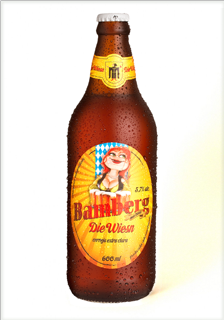
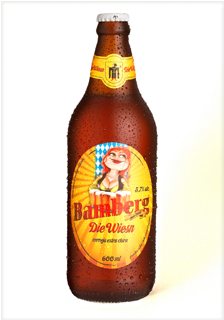
Alterações das imagens

Changed region(s): [[0.0, 0.0, 0.0312, 1.0]]

diff --git a/html/schwarzbier.html b/html/schwarzbier.html
@@ -40,7 +40,7 @@
           <!-- Descrição Cervejas -->
           <div id="content">
 	          <div class="fixo">
-	          	<img src="img/schwarzbier.png" alt="Bamberg Schwarzbier" />
+	          	<img src="img/cervejas/schwarzbier.png" alt="Bamberg Schwarzbier" />
 
 	          	<ul class="itens">
 					<li>Chope,  355 ml e 600 ml.</li>

diff --git a/html/rauchbier.html b/html/rauchbier.html
@@ -40,7 +40,7 @@
           <!-- Descrição Cervejas -->
           <div id="content">
 	          <div class="fixo">
-	          	<img src="img/rauchbier.png" alt="Bamberg Rauchbier" />
+	          	<img src="img/cervejas/rauchbier.png" alt="Bamberg Rauchbier" />
 
 	          	<ul class="itens">
 					<li>Chope,  355 ml e 600 ml.</li>
